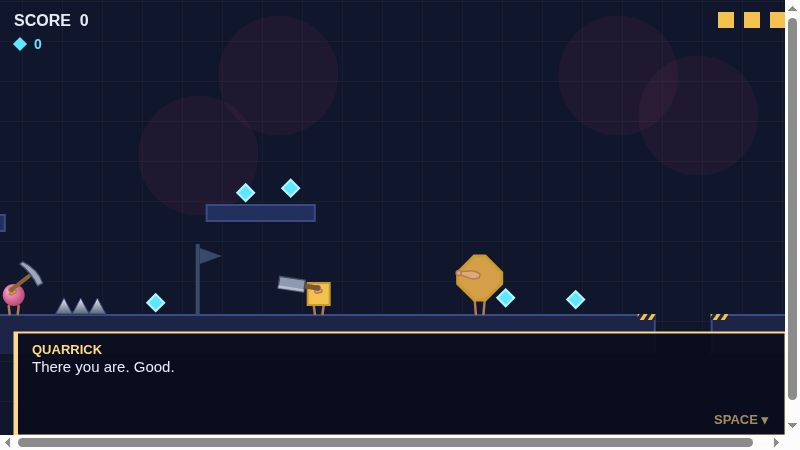
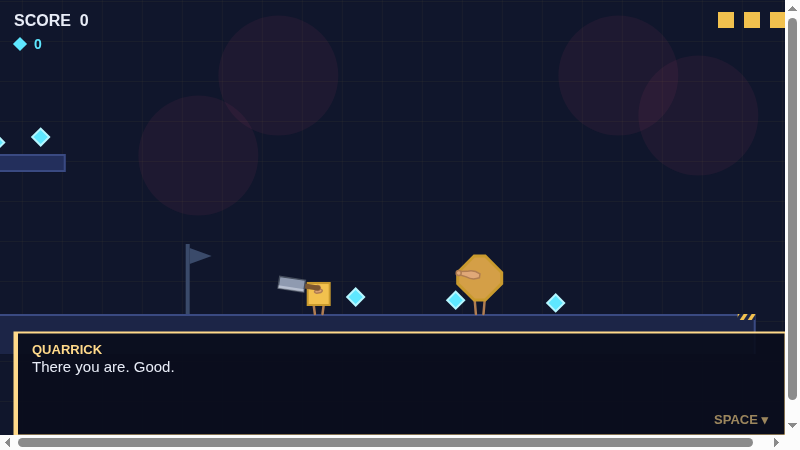
Bosses wait their turn, and the docs describe the game that exists
A screenshot of level 5's spawn point caught the Terraformer announcing
"THE ROOM IS OPEN — NOW!" while the player was 6000px away, because
every fightable boss was running its whole phase machine from the first
frame of the level. The Excavator was worse than noisy: it digs pits,
so a player walking in would arrive at holes nothing had visibly dug.

Bosses now idle until the player is within 1100px — comfortably more
than a screen, so a fight is already going by the time it comes into
view and never visibly switches on. The boss probe had to be taught to
stand in the arena, which is what a player does anyway; testing a boss
from the spawn point was testing one that is correctly doing nothing.

That probe also spent two runs reading "running…" while I guessed at
what had broken. It reports throws now, with the first lines of the
stack, instead of dying silently.

Docs updated to describe what's actually there: the level table says
what SHAPE each face is rather than just what it introduces, the weapons
section covers enemies carrying chainsaws and the level 6 trade, music
moods are recorded as answered, and the plan's audit section carries the
six lessons that cost a level failure each to learn.

README rebuilt around seven new screenshots — the terraced quarry, the
columns, the handoff, cover, lifts, a boss telegraphing, and the core
part-way back to square.

27 asserting probes green.

diff --git a/src/entities/enemy.js b/src/entities/enemy.js
@@ -37,6 +37,16 @@ const SHOT_COOLDOWN = 110;
 // Corrupted squares shamble. They are not hunting you, they're just drawn
 // toward you, and the speed says so.
 const OCTAGON_SPEED = 0.75;
+// How close the player has to be before a fightable boss starts fighting.
+// Comfortably more than a screen, so it's already going by the time it comes
+// into view and never visibly "switches on".
+//
+// Without this every boss runs its whole phase machine from the first frame
+// of the level: the Terraformer was announcing "THE ROOM IS OPEN — NOW!"
+// while the player was still at the spawn point 6000px away, and the
+// Excavator digs pits, which the player would then arrive at without ever
+// having seen anything dig them.
+const BOSS_ENGAGE_RANGE = 1100;
 
 // Timers that used to be Math.random() are derived from the enemy's own
 // position instead.
@@ -107,6 +117,12 @@ function patrol(enemy) {
   enemy.facing = enemy.speed >= 0 ? 1 : -1;
 }
 
+// A fightable boss idles until the player is near enough for the fight to be
+// something they can see happening.
+function bossEngaged(boss, player) {
+  return Math.abs((player.x + player.width / 2) - (boss.x + boss.w / 2)) < BOSS_ENGAGE_RANGE;
+}
+
 function playerIsNear(enemy, player, range) {
   const dx = (player.x + player.width / 2) - (enemy.x + enemy.w / 2);
   const dy = (player.y + player.height / 2) - (enemy.y + enemy.w / 2);
@@ -170,7 +186,7 @@ export function updateEnemies(player, cutsceneActive) {
     if (enemy.kind === 'core') {
       // Driven entirely by its own phase machine (entities/bosses.js). It
       // never moves — the arena moves, and the player moves around it.
-      if (!cutsceneActive) updateBossBehaviour(enemy, player);
+      if (!cutsceneActive && bossEngaged(enemy, player)) updateBossBehaviour(enemy, player);
     } else if (enemy.kind === 'octagon') {
       // Checked BEFORE the boss branches, because the Sculptor is a boss
       // AND an octagon, and what it is matters more than what rank it
@@ -181,7 +197,7 @@ export function updateEnemies(player, cutsceneActive) {
     } else if (enemy.boss && enemy.mode === 'fight') {
       // A real fight: the boss drives itself. Its own phase machine decides
       // when it can be hurt (see entities/bosses.js).
-      if (!cutsceneActive) updateBossBehaviour(enemy, player);
+      if (!cutsceneActive && bossEngaged(enemy, player)) updateBossBehaviour(enemy, player);
     } else if (enemy.boss) {
       // Level 1's Foreman: patrols until its cutscene takes over.
       if (!enemy.awake) patrol(enemy);

diff --git a/tools/boss-fight-probe.html b/tools/boss-fight-probe.html
@@ -39,6 +39,8 @@
     return before - boss.hp;
   }
 
+  const tick = n => { for (let i = 0; i < n; i++) update(); };
+
   function findBoss() {
     return state.enemies.find(e => e.boss && e.mode === 'fight');
   }
@@ -53,11 +55,25 @@
     const boss = findBoss();
     out.push(`== level ${index} (${lv.name}): ${boss ? boss.bossKind : 'NO BOSS'} ==`);
     if (!boss) { check(false, 'has a fightable boss'); return; }
+    // Stand in the arena. Bosses idle until the player is within
+    // BOSS_ENGAGE_RANGE (entities/enemy.js) so they aren't running their
+    // whole fight — announcing openings, digging pits — from across a level
+    // the player hasn't reached yet. Testing one from the spawn point tests
+    // a boss that is correctly doing nothing.
+    player.x = boss.x - 200;
+    player.y = boss.y;
+    tick(2);
     check(!!player.weapon, `player arrives armed (${player.weapon})`);
     expect(boss, lv);
   }
 
+  // Anything that throws in here otherwise leaves the page reading
+  // "running…" forever, which says nothing about what went wrong.
+  const report = () => {
+    document.getElementById('out').textContent = out.join('\n');
+  };
   setTimeout(() => {
+   try {
     // --- level 2: The Excavator ---
     runLevel(1, (boss) => {
       boss.phase = 'advance'; boss.phaseTimer = 999;
@@ -166,7 +182,10 @@
     });
 
     out.push(fails ? `*** ${fails} FAILURE(S)` : 'PASS every boss opens, closes and pays out');
+   } catch (err) {
+    out.push('*** THREW: ' + (err && err.stack ? err.stack.split('\n').slice(0, 3).join(' | ') : err));
+   }
     out.push('errors: ' + (window.__errs.length ? window.__errs.join(' | ') : 'none'));
-    document.getElementById('out').textContent = out.join('\n');
+    report();
   }, 250);
 </script></body></html>

diff --git a/GAME_DESIGN.md b/GAME_DESIGN.md
@@ -79,6 +79,19 @@ Target roster was **3–5 weapons total**. **Three shipped** (2026-09-21), which
 
 **One at a time.** *(Answers an open question below.)* The player carries a single weapon, not a loadout. This is what keeps the Cornerstone's scarcity honest — with a melee weapon also in hand, running out of triangles would cost nothing. **Stomping is the unarmed fallback**, so running dry is never a dead end.
 
+> **The one place it's a decision.** A sledgehammer lies on a shelf in the
+> middle of level 6. Taking it trades away the Cornerstone and every triangle
+> with it, for a heavy melee weapon that never runs out. Nothing in that level
+> has to be restored and level 7 hands the Cornerstone back at its spawn, so
+> either answer finishes the game. That's the honest version of "all weapon
+> types" for a game with one weapon slot: not a loadout screen, a cost.
+
+**Enemies carry weapons too**, through the same registry — the hit path
+doesn't care who is swinging. Tool-carrying pursuers arrive in level 2 with
+pickaxes and reappear in level 6 with **chainsaws**, which are thrust and
+held rather than swung, so the same tier of enemy becomes a different problem
+without becoming a different enemy.
+
 **Parked, not cut:** the bazooka (`weapons/bazooka.js`) and chainsaw (`weapons/chainsaw.js`) both exist in the codebase, unwired, kept for a later level. See the implementation plan's "Decisions made" for why the bazooka stopped being level 1's weapon.
 
 ### Enemies
@@ -182,15 +195,28 @@ The single biggest piece of character writing in the game, and the spine the wea
 
 **All seven are built** (2026-09-21). The framework below is what shipped; where it drifted from the original sketch, the reason is in the right-hand column.
 
-| Level | Name | What it introduces |
-|---|---|---|
-| 1 | **The First Stand** | Tutorial. Passive spheres, an unwinnable boss, no dialogue at all. |
-| 2 | **The Quarry** | The game starts talking. Spheres that carry tools and break patrol. A boss that can be fought. |
-| 3 | **What the Sanders Left** | Octagons, then the Cornerstone, then the Sculptor. The turn the game is built around. |
-| 4 | **Three Against One** | Spheres shoot back. The Demolition Crew. |
-| 5 | **The Room That Moves** | The arena itself becomes the threat. |
-| 6 | **No Tricks Left** | Everything at once, and nobody waiting for you. |
-| 7 | **The Middle of the World** | The hollow centre and the core. |
+Every face is a different **place**, not just a different population. That
+distinction is the single biggest thing separating the first pass at levels
+2-6 from what shipped: the first versions had different enemies on an
+identical floor plan (levels 3, 4 and 5 literally shared a gap sequence).
+Each level now has one structural idea and is laid out around it.
+
+| Level | Name | Its shape | What it introduces |
+|---|---|---|---|
+| 1 | **The First Stand** | Flat. The baseline everything else is read against | Tutorial. Passive spheres, an unwinnable boss, and not one word of dialogue. |
+| 2 | **The Quarry** | **Goes down.** Four terraces, 40px each, into a cut in the face | The game starts talking. Spheres that carry tools and break patrol. A boss that can be fought. |
+| 3 | **What the Sanders Left** | **Stands up.** Sanded into columns; climbed rather than crossed | Octagons, then the Cornerstone, then the Sculptor. The turn the game is built around. |
+| 4 | **Three Against One** | **Sightlines.** Long open runs and waist-high cover, on a raised shelf | Spheres shoot back, and spheres hop. The Demolition Crew. |
+| 5 | **The Room That Moves** | **Nothing holds still.** Lifts and sliders, a low route and a high one | The floor plan as the threat. The Terraformer. |
+| 6 | **No Tricks Left** | **Four arenas, three crossings.** Almost nothing to platform over | Chainsaws. A weapon you have to give something up for. The General. |
+| 7 | **The Middle of the World** | **Only goes down.** Four ledges through the crust, then the cavity | The descent, the core, and the end. |
+
+Two drifts from the original sketch, recorded rather than quietly absorbed.
+**Pursuing enemies arrived in level 2, not 4** — once tool-carrying spheres
+existed, having them ignore the player was stranger than having them chase.
+And **octagons arrived in 3 alongside the Cornerstone** rather than a level
+ahead of it, because the beat only works if the player meets something they
+cannot beat shortly before being handed the thing that answers it.
 
 Two drifts worth recording. **Pursuing enemies arrived in level 2, not 4** — once tool-carrying spheres existed, having them ignore the player was stranger than having them chase. And **octagons arrived in 3 alongside the Cornerstone rather than a level ahead of it**, because the beat only works if the player meets something they cannot beat shortly before being handed the thing that answers it.
 
@@ -325,16 +351,20 @@ Music direction is still open.
 **Still open — genuinely, not for lack of time:**
 
 - [ ] **Coins beyond lives** — the between-levels shop idea. See [Economy](#should-coins-buy-more-than-lives--candidate). Deliberately not built: the thresholds across all seven levels are tuned for lives-only, and adding a second sink means re-tuning every level rather than adding a menu.
-- [ ] **Music direction.** There IS music — one procedurally scheduled loop
-  (bass, arpeggio, hat) in `audio/audio.js`, started at the first level and
-  deliberately never restarted across level transitions so it doesn't stutter
-  at a seam. What's open is whether it should stay one loop for the whole
-  game. Seven levels that escalate from a tutorial to the middle of a hollow
-  planet arguably shouldn't share a single track, and the descent especially
-  wants something to change. Every weapon and enemy already has its own sound
-  identity (see [Sound Design](#sound-design)); the score is the part that
-  hasn't been designed.
+- [x] ~~**Music direction.**~~ → **Moods, not tracks** (2026-09-21). The one
+  loop now has seven settings: steady through levels 1-2, faster with the
+  arpeggio an octave up for 3-4, driven with the bass an octave down for 5-6,
+  and for the cavity, half speed with no hats and no arpeggio at all. They're
+  variations on the *same running loop* rather than separate pieces, because
+  `startMusic()` is deliberately idempotent so level transitions don't stutter
+  — a mood change has to be something a loop can absorb mid-phrase. Tempo and
+  register can. A new melody can't. **Still open:** whether the game wants
+  actual composed themes, which is a different and much larger question.
 - [ ] **A second NPC.** Quarrick carries the entire cast. `state.rescueNPC` is a single slot and a scene with two characters in it would need a list first.
+- [ ] **Lasers.** The enemy table says "chainsaws, lasers, etc." for the late
+  levels. Chainsaws shipped; lasers didn't, and a hitscan weapon would be the
+  first thing in the game that can't be dodged after it fires — worth thinking
+  about before building.
 - [ ] Multiplayer / co-op potential?
 
 **Deliberately not built, and worth knowing before picking any of it up:**

diff --git a/IMPLEMENTATION_PLAN.md b/IMPLEMENTATION_PLAN.md
@@ -62,6 +62,9 @@ the edge of its cube face except the sixth, which ends by falling through it.
 
 | System | Where | Note |
 |---|---|---|
+| Terraced ground | `levels/levelLoader.js` | A ground segment may sit above the level's base line. Everything that reads ground already read `seg.y`, so this was a data change rather than a system one |
+| Moving platforms | `levels/movers.js` | Lifts and sliders on a clock. A slider hands back its delta so it carries the player; a lift doesn't need to, since it rises into them and collision resolves it |
+| Impact | `engine/impact.js` | Screen shake and hit-stop on every landed hit. Suspended during cutscenes, whose beats are timed in frames and asserted by probes |
 | Weapon registry | `weapons/registry.js` | Register by name; look up behaviour, drawing and sound by type. Three weapons |
 | Entity-agnostic combat | `weapons/combat.js` | An *owner* is anything with a position, a facing, a weapon id and three timers. A sphere swings through the same path the player does |
 | Enemy tiers | `entities/enemy.js` | passive → pursuer → aggressor, declared per spawn, defaulting to passive so level 1 never moved |
@@ -585,6 +588,8 @@ What's in it, and what each thing is actually for:
 | `story-beats-probe` | Can the player be blocked by a story beat? The handoff, the restoration, the Sculptor, the core |
 | `progression-chain-probe` | Does every level actually lead to the next one? |
 | `full-playthrough-probe` | One run, cleared save to win screen, every story scene asserted |
+| `level-data-probe` | The boring stuff, read straight off level data: weapons and cutscene ids that exist, a level that can end, spawns and checkpoints over ground, hazards that don't run off a ledge. Found three of level 6's checkpoints floating in its pits |
+| `respawn-state-probe` | What survives a death — and standing at all 21 checkpoints in the game for two seconds without touching the controls |
 | the older probes | Physics, coins, saves, cutscene contract — unchanged, and all still green |
 
 **Adding a level** means: write the data file, add it to `levels/registry.js`,
@@ -598,16 +603,39 @@ It proves **nothing is impossible**. It says nothing about whether a level is
 *fun*, or fairly paced, or the right difficulty for a seven-year-old. Those
 need a person with a controller.
 
+**Probes are deterministic.** Enemy hop and shot timers used to be seeded
+with `Math.random()` at spawn, which made "is this checkpoint survivable"
+pass alone and fail in the suite depending on the dice. They're derived from
+the enemy's own x now. A failure means something changed, not that the coin
+came up differently. What's left of `Math.random()` is particles and the
+block house's shake, neither of which anything measures.
+
 It is also calibrated against level 1, which is the only reason to trust it —
 every complaint it raised about that finished, playtested level turned out to
 be the instrument being wrong, and each fix is written up in the probe at the
-line it applies to. Four of them are worth knowing about because they'll bite
-anyone who extends it: tests must **arrive at speed** (a standing start
-measures the runway, not the obstacle), a runway must not begin **inside a
-solid block or a spike bed**, obstacles must be tested at **both walk and run**
-(some are deliberately walk-only), and the static "platform over a take-off"
-rule is **advisory** because it can't see horizontal travel and the simulation
-can.
+line it applies to. Six of them are worth knowing about because they'll bite anyone who extends
+it. Tests must **arrive at speed** — a standing start measures the runway,
+not the obstacle. A runway must not begin **inside a solid block or a spike
+bed**. Obstacles must be tested at **both walk and run**, since some are
+deliberately walk-only. The static "platform over a take-off" rule is
+**advisory**, because it can't see horizontal travel and the simulation can.
+Tests must model **jumping off blocks**, not just running along the ground —
+in a level built of columns that's the only way anyone plays, and testing the
+ground alone called all twelve of level 3's beds uncrossable. And everything
+that asks "is this on the ground" must ask about the **local** ground, not
+the level's base line, or every block on a raised shelf goes unrecognised.
+
+Two rules exist because a level shipped without them and the pair of
+obstacles was wrong even though each was fine alone:
+
+- **A bed near the end of its segment is a trap.** Clearing it at run carries
+  ~168px, so if the ledge is right there the correct answer to the hazard is
+  a death in the pit after it.
+- **A checkpoint is measured against what an enemy can REACH**, not where it
+  walks. A pursuer breaks patrol at 230px and an aggressor shoots from 330,
+  so a checkpoint 100px outside a shooter's patrol is still somewhere you
+  respawn and get shot standing still. Five checkpoints passed the old rule
+  and were fatal.
 
 ---
 
@@ -1071,14 +1099,18 @@ To add:
 GAME_DESIGN.md is the register of record for open *design* questions — this
 list is only the subset that changes what gets built, and in what order.
 
-**Blocking:** none. The game is finishable.
+**Blocking:** none. The game is finishable, and every level has a shape of
+its own rather than a shared skeleton — see GAME_DESIGN's level table for
+what each one's structural idea is.
 
 **The honest list — what a reader should not assume exists.** Everything
 below is deliberately unbuilt, not overlooked, and each has its reasoning at
 the build-order step it belongs to:
 
 - **Chamfered terrain is visual only.** Platforms are still flat-top
-  rectangles; nothing is walked up at 45°. Step 4.
+  rectangles; nothing is walked up at 45°. Step 4. Note that TERRACES are a
+  different thing and do exist: ground can sit at different heights, it's
+  just always flat where it sits.
 - **No level authoring tool.** Six levels were hand-authored without missing
   it; the audit probe answered the need it was really for. Step 3.
 - **Ordinary spheres don't reshape the world.** Bosses do. The parked trick

diff --git a/README.md b/README.md
@@ -24,23 +24,37 @@ Level 1 — you start at your own front door, and it goes downhill from there.
 
 ![Level 1 start](assets/screenshots/level1-start.png)
 
-Coins mark the line a good jump takes. Follow the arc and you'll usually
-land somewhere sensible.
+Every face of the cube is a different shape of place, not just a different
+set of enemies. **The Quarry** is cut in terraces and you climb down into it.
 
-![A staircase in level 1](assets/screenshots/level1-staircase.png)
+![The Quarry](assets/screenshots/level2-quarry.png)
 
-The second half asks for more precision. The debris the spheres leave behind
-is not decorative.
+**What the Sanders Left** was ground into columns. You go up.
 
-![Jumping a spike bed](assets/screenshots/level1-spikes.png)
+![Columns](assets/screenshots/level3-columns.png)
 
-Level 3 — Quarrick has been losing corners since you met him, and nobody
-mentions it. He gives you the Cornerstone here, and then you find out why.
+Halfway through it, Quarrick gives you the Cornerstone. He has been losing
+corners since you met him and nobody has mentioned it.
 
-![The handoff in level 3](assets/screenshots/level3-handoff.png)
+![The handoff](assets/screenshots/level3-handoff.png)
 
-Level 7 — the middle of the world. A cube with every corner shaved off it,
-part-way back to being square.
+**Three Against One** is about sightlines. The spheres shoot now — the hot
+orange ones — and their shots stop at anything solid, so the low blocks are
+worth standing behind.
+
+![Cover](assets/screenshots/level4-cover.png)
+
+**The Room That Moves** doesn't stay where you left it.
+
+![Lifts](assets/screenshots/level5-lifts.png)
+
+Bosses tell you what they're doing. The bar says whether it can be hurt right
+now; red empties, cyan fills.
+
+![The General](assets/screenshots/level6-general.png)
+
+And at the middle of the world, a cube with every corner shaved off it —
+part of the way back to being square.
 
 ![The core](assets/screenshots/level7-core.png)
 
@@ -86,6 +100,9 @@ chop, a heavy overhead swing, or a fired triangle. From level 3 on, the
 triangles are counted: the pips at the top right are all you have, and putting
 a corrupted square back costs two of them.
 
+You carry **one weapon at a time**. There's a sledgehammer lying on a shelf
+in level 6, and picking it up means putting the Cornerstone down.
+
 Jumping on a sphere always works, and never runs out.
 
 A gamepad is picked up automatically once you press a button on it; there's
@@ -95,7 +112,13 @@ nothing to configure.
 
 **All seven levels, start to finish.** Six faces of a cube planet, then a
 descent, then the hollow centre and whatever the spheres have been digging
-toward. Three weapons, seven bosses, and an ending.
+toward. Seven bosses, none of which is a bigger version of the last one, and
+an ending that isn't a kill.
+
+Each face has its own shape — one is terraced, one is columns you climb, one
+is cover and sightlines, one won't hold still, one is four arenas and a
+fight. Enemies escalate from patrolling, to carrying tools and chasing you,
+to shooting, to chainsaws.
 
 There's an opening cutscene the first time you play — skippable, and it only
 ever plays once. From level 2 onward the characters talk; `Space` advances a
